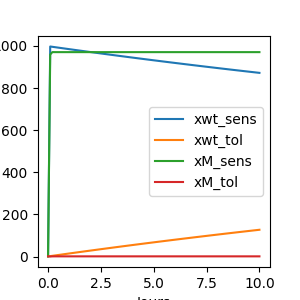
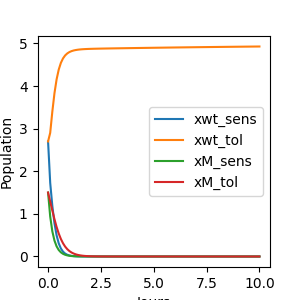
added plot for both cancer and healthy cells

diff --git a/MedicamentResistanceODE/model.py b/MedicamentResistanceODE/model.py
@@ -147,6 +147,43 @@ def get_daily_cancer_cells(medicament: str, proportion: str, y0s, to_plot: bool 
 
     return cancer_solutions
 
+
+def get_daily_cancer_cells2(medicament: str, proportion: str, y0, to_plot: bool = True, to_save: bool = False):
+    """
+
+    """
+    # init model
+    model_instance = ModelCATImproved(medicament=medicament, proportion=proportion)
+
+
+    # create figure
+    plt.figure(figsize=FIGSIZE)
+
+
+    # compute solutions for all IVP
+    t_start, t_end, num_points = 0, 10, 100
+    t, solution = model_instance.solve(y0, t_start, t_end, num_points)
+    healthy = solution[:, 0] + solution[:, 1]
+    cancer = solution[:, 2] + solution[:, 3]
+        
+    # plot cancer cells against days for all IVP
+    if to_plot:
+        plt.plot(t, cancer, label="Mutant $x_{M}$")
+        plt.plot(t, healthy, label='Wild $x_{WT}$')
+
+    if to_plot:
+        plt.legend()
+        #  plt.title(f'Nombre de cellules cancérigènes $x_M$ après n jours pour {medicament} {proportion}')
+        plt.xlabel('Jours')
+        plt.ylabel('Population')
+
+        if to_save:
+            filename = f"cancer_{medicament}_{proportion}_both.png"
+            plt.savefig(os.path.join(GRAPHICS_DIR, filename))
+
+        plt.show()
+
+
 def get_correlation_cellulaire_ivp(medicament: str, proportion: str, y0s, t1: int, is_exponential = True, to_plot: bool = True): # FIXME
     """
     Parameters
@@ -190,32 +227,24 @@ def get_correlation_cellulaire_ivp(medicament: str, proportion: str, y0s, t1: in
 #  ---------------- PARTICULAR CASES -----------------------------------
 
 
-def test_docetaxel():
-    medicament, proportion = "Docetaxel", "50_50"
-    ode_graph_title, cancer_graph_title = "ode_docetaxel_50_50", "cancer_docetaxel_50_50"
-    to_save = True
-
-    medicament, proportion = "Docetaxel", "90_10"
-    ode_graph_title, cancer_graph_title = "ode_docetaxel_90_10", "cancer_docetaxel_90_10"
-    to_save = True
-
-    medicament, proportion = "Docetaxel", "10_90"
-    ode_graph_title, cancer_graph_title = "ode_docetaxel_10_90", "cancer_docetaxel_10_90"
-    to_save = True
-
+def test_cases(medicament: str, proportion: str, ode_graph_title: str, cancer_graph_title: str, y0, to_save: bool = True):
 
     #  [ PART 1 - Plot ODE Solution ]
-    solutions = get_ode_solution(medicament=medicament, proportion=proportion, y0=[1,1,1,1], to_plot=True, to_save=to_save)
+    solutions = get_ode_solution(medicament=medicament, proportion=proportion, y0=y0, to_plot=True, to_save=to_save)
 
     #  [ PART 2 - Plot Cancer cells against days for different initial conditions]
-    y0s = [
-            [1,1,1,1], 
-            [2,2,2,2], 
-            [3,3,3,3], 
-            [5,5,5,5], 
-            [8,8,8,8], 
-        ]
-    get_daily_cancer_cells(medicament=medicament, proportion=proportion, y0s=y0s, to_plot=True, to_save=to_save)
+    #  y0s = [
+    #          [1,1,1,1], 
+    #          [2,2,2,2], 
+    #          [3,3,3,3], 
+    #          [5,5,5,5], 
+    #          [8,8,8,8], 
+    #      ]
+    #  get_daily_cancer_cells(medicament=medicament, proportion=proportion, y0s=y0s, to_plot=True, to_save=to_save)
+
+
+    y0 = [1,1,1,1]
+    get_daily_cancer_cells2(medicament=medicament, proportion=proportion, y0=y0, to_plot=True, to_save=to_save)
 
 
     #  [ PART 3 - Correlation entre nombre de cellules en sante vs cancerigenes par jour (IVP)]
@@ -225,42 +254,32 @@ def test_docetaxel():
     
     #  [ PART 4 - Correlation entre nombre de cellules en sante vs cancerigenes par jour (proportion)]
     
-def test_aftinib():
-    medicament, proportion = "Afatinib", "50_50"
-    ode_graph_title, cancer_graph_title = "ode_afitinib_50_50", "cancer_afitinib_50_50"
-    to_save = True
-
-    # ERROR
-    #  medicament, proportion = "Afatinib", "90_10"
-    #  ode_graph_title, cancer_graph_title = "ode_afitinib_90_10", "cancer_afitinib_90_10"
-    #  to_save = True
-
-    medicament, proportion = "Afatinib", "10_90"
-    ode_graph_title, cancer_graph_title = "ode_afitinib_10_90", "cancer_afitinib_10_90"
-    to_save = True
-
-    #  [ PART 1 - Plot ODE Solution ]
-    solutions = get_ode_solution(medicament=medicament, proportion=proportion, y0=[1,1,1,1], to_plot=True, to_save=to_save)
-
-    #  [ PART 2 - Plot Cancer cells against days for different initial conditions]
-    y0s = [
-            [1,1,1,1], 
-            [2,2,2,2], 
-            [3,3,3,3], 
-            [5,5,5,5], 
-            [8,8,8,8], 
-        ]
-    get_daily_cancer_cells(medicament=medicament, proportion=proportion, y0s=y0s, to_plot=True, to_save=to_save)
-    pass
-
-    
 
 if __name__ == "__main__":
-    df = pd.read_csv("MedicamentResistanceODE/data.csv")
+    #  df = pd.read_csv("MedicamentResistanceODE/data.csv")
+    df = pd.read_csv("MedicamentResistanceODE/data2.csv")
     GRAPHICS_DIR = 'MedicamentResistanceODE/graphics/'
     FIGSIZE = (3,3)
-    test_docetaxel()
-    #  test_aftinib()
 
+    test_cases(medicament= "Docetaxel", proportion= "50_50", ode_graph_title= "ode_docetaxel_50_50", cancer_graph_title= "cancer_docetaxel_50_50", to_save=True, 
+               y0=[1,1,1,1])
+
+    test_cases(medicament= "Docetaxel", proportion= "90_10", ode_graph_title= "ode_docetaxel_90_10", cancer_graph_title= "cancer_docetaxel_90_10", to_save=True, 
+               y0=[2.70, 2.70, 1.5, 1.5])
+
+    test_cases(medicament= "Docetaxel", proportion= "10_90", ode_graph_title= "ode_docetaxel_10_90", cancer_graph_title= "cancer_docetaxel_10_90", to_save=True, 
+               y0=[1,1,1,1])
+
+    test_cases(medicament= "Afatinib", proportion= "50_50", ode_graph_title= "ode_afitinib_50_50", cancer_graph_title= "cancer_afitinib_50_50", to_save=True, 
+               y0=[1,1,1,1])
+
+    test_cases(medicament= "Afatinib", proportion= "90_10", ode_graph_title= "ode_afitinib_90_10", cancer_graph_title= "cancer_afitinib_90_10", to_save=True, 
+               y0=[2.2117, 2.2117, 1.4259, 1.4259])
+
+    test_cases(medicament= "Afatinib", proportion= "10_90", ode_graph_title= "ode_afitinib_10_90", cancer_graph_title= "cancer_afitinib_10_90", to_save=True, 
+               y0=[1,1,1,1])
+
+    test_cases(medicament= "Bortezomib", proportion= "50_50", ode_graph_title= "ode_bortezomib_50_50", cancer_graph_title= "cancer_bortezomib_50_50", to_save=True, 
+               y0=[1,1,1,1])
 
 

diff --git a/InformationSpred/src/NaiveSimulation.cpp b/InformationSpred/src/NaiveSimulation.cpp
@@ -18,8 +18,8 @@ void NaiveSimulation::simulate() {
 	double probability = max(static_cast<double>(distributionProbability(generator)), 1.0);
 
 	// add person to population
-	PersonBernouilli person(i, probability);
-	population.push_back(person);
+	PersonBernouilli *person = new PersonBernouilli(i, probability);
+	population.push_back(unique_ptr<Person>(person));
     }
 
     // 2. initialize friends and people with information
@@ -29,7 +29,7 @@ void NaiveSimulation::simulate() {
 	vector<int> friendsIndices(numFriends);
 	// friendsIndices.push_back(i); // initialize 
 	
-	Person person = population[i];
+	// Person person = population[i];
 
 	// person.printInfos();
 
@@ -40,8 +40,8 @@ void NaiveSimulation::simulate() {
 	    if (find(friendsIndices.begin(), friendsIndices.end(), randomInt) == friendsIndices.end()) {
 		friendsIndices.push_back(randomInt);
 		// Person &f = population[randomInt];
-		Person f = population[randomInt];
-		person.addFriend(f);
+		// Person f = population[randomInt];
+		// person.addFriend(f);
 	    }
 
 	}
@@ -51,13 +51,16 @@ void NaiveSimulation::simulate() {
     }
 
     // tmp print
-    cout << endl;
+    for (int i=0; i<N; ++i) {
+	population[i]->printInfos();
+    }
+    // cout << endl;
     // for (const Person &person: population) {
 	// cout << person.hasInformation;
     // }
-    for (auto p: population) {
-	p.printInfos();
-    }
+    // for (auto p: population) {
+    //     p.printInfos();
+    // }
 
     // 3. run simulation until everyone has information
 

diff --git a/SnakeAI/agent.py b/SnakeAI/agent.py
@@ -21,7 +21,7 @@ LR = 0.001
 
 class CustomAgent:
 
-    def __init__(self, n_games=50, epsilon=0.9, gamma=0.9):
+    def __init__(self, n_games=50, epsilon=0.6, gamma=0.9):
         self.n_games = n_games
         self.epsilon = epsilon
         self.gamma = gamma
@@ -29,7 +29,7 @@ class CustomAgent:
         self.model = Linear_QNet(11, 256, 4)
         self.trainer = QTrainer(self.model, lr=LR, gamma=self.gamma)
 
-    def get_state(self, game): # TODO
+    def get_state(self, game): 
         """ 
         Function that return state of the snake
 
@@ -120,8 +120,6 @@ class CustomAgent:
 
         return action
 
-        
-    
 
 class Agent:
 
@@ -189,13 +187,16 @@ def train():
         state_new = agent.get_state(game)
 
         agent.train_short_memory(state_old, final_action_idx, reward, state_new, done)
+
+        agent.remember(state_old, final_action_idx, reward, state_new, done)
+
         last_action = final_action
 
         if done:
             game.reset_game()
             last_action = None
             agent.n_games += 1
-            #  agent.train_long_memory()
+            agent.train_long_memory()
 
             if score > record: 
                 record = score

diff --git a/MedicamentResistanceODE/combined.py b/MedicamentResistanceODE/combined.py
@@ -35,7 +35,10 @@ def display_images_in_grid(images, titles, rows, cols, figsize=(6, 6), to_save=F
 GRAPHICS_DIR = "MedicamentResistanceODE/graphics/"
 
 # Specify the image file names
-medicament = "Docetaxel"
+#  medicament = "Docetaxel"
+medicament = "Afatinib"
+
+
 ode_images = [f"ode_{medicament}_10_90.png", f"ode_{medicament}_50_50.png", f"ode_{medicament}_90_10.png"]
 cancer_images = [f"cancer_{medicament}_10_90.png", f"cancer_{medicament}_50_50.png", f"cancer_{medicament}_90_10.png"]
 proportions = ["10:90", "50:50", "90:10"]
@@ -47,6 +50,6 @@ ode_titles = ["ODE 10_90", "ODE 50_50", "ODE 90_10"]
 cancer_titles = ["Cancer 10_90", "Cancer 50_50", "Cancer 90_10"]
 
 # Display and save the combined figure
-save_filename=os.path.join(GRAPHICS_DIR, "{medicament}_combined_figure.png")
+save_filename=os.path.join(GRAPHICS_DIR, f"combined_{medicament}.png")
 display_images_in_grid(ode_images + cancer_images, ode_titles + cancer_titles, 2, 3, to_save=True, save_filename=save_filename)
 

diff --git a/InformationSpred/include/Simulation.h b/InformationSpred/include/Simulation.h
@@ -2,6 +2,7 @@
 #define SIMULATION_H
 
 #include "Person.h"
+#include <memory>
 
 class Simulation {
     protected:
@@ -13,13 +14,14 @@ class Simulation {
 	double meanFriends, stdFriends; // mean and standard deviation of friends
 	// vector<Person*> population;
 	// vector<Person> &population;
-	vector<Person> population;
+	vector<unique_ptr<Person>> population;
 
 	Simulation(int N, int initialPeopleWithInfo, double meanFriends, double stdFriends);
 
 	virtual void simulate();
 
-	void addToPopulation(const Person &friendPerson); 
+	// void addToPopulation(const Person &friendPerson); 
+	void addToPopulation(Person *friendPerson); 
 
 };
 #endif

diff --git a/InformationSpred/include/Person.h b/InformationSpred/include/Person.h
@@ -3,6 +3,7 @@
 
 #include <vector>
 #include <iostream>
+#include <memory>
 
 using namespace std;
 
@@ -11,14 +12,14 @@ class Person {
 
     public:
 	int id;
-	vector<Person> friends;
+	// vector<unique_ptr<Person>> friends;
 	// vector<Person> &friends;
 	bool hasInformation;
 	Person(int id);
 
 	virtual void printInfos();
 
-	void addFriend(const Person &friendPerson);
+	// void addFriend(const Person &friendPerson);
 };
 
 #endif

diff --git a/InformationSpred/src/Simulation.cpp b/InformationSpred/src/Simulation.cpp
@@ -6,6 +6,6 @@ Simulation::Simulation(int N, int initialPeopleWithInfo, double meanFriends, dou
 void Simulation::simulate() {}
 
 
-void Simulation::addToPopulation(const Person &friendPerson) {
-    population.push_back(friendPerson);
+void Simulation::addToPopulation(Person *friendPerson) {
+    population.push_back(unique_ptr<Person>(friendPerson));
 }

diff --git a/InformationSpred/src/Person.cpp b/InformationSpred/src/Person.cpp
@@ -4,7 +4,7 @@ Person::Person(int id): id(id), hasInformation(false) {}
 
 void Person::printInfos() { }
 
-void Person::addFriend(const Person& friendPerson) {
-    friends.push_back(friendPerson);
-}
+// void Person::addFriend(const Person& friendPerson) {
+//     friends.push_back(friendPerson);
+// }
 
